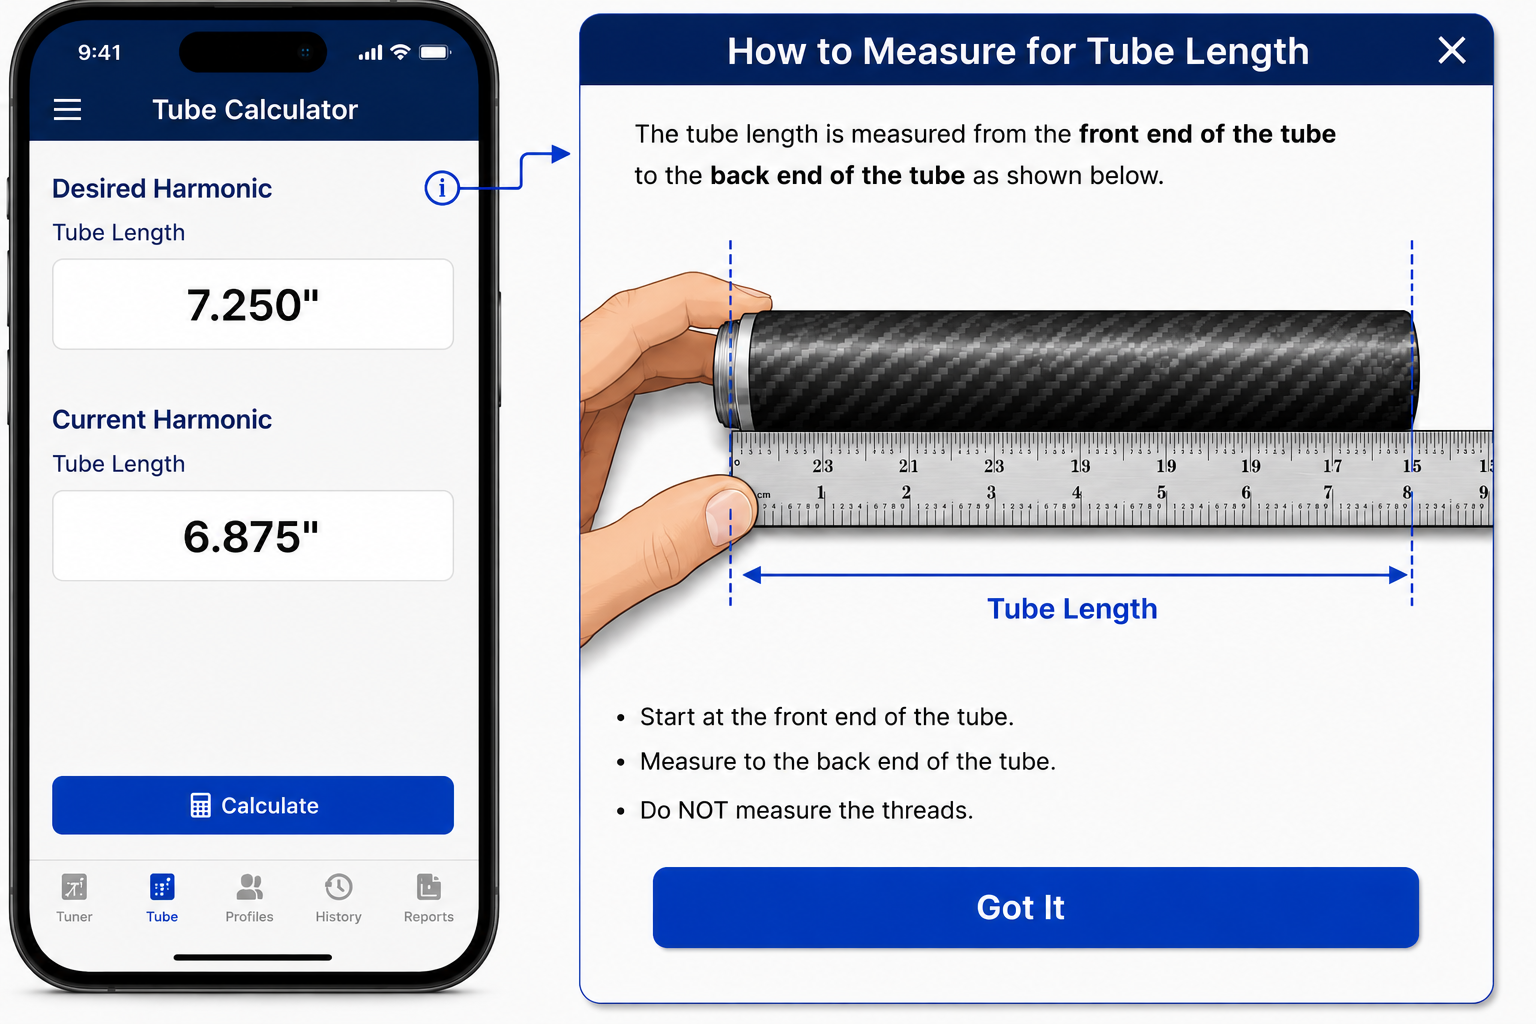
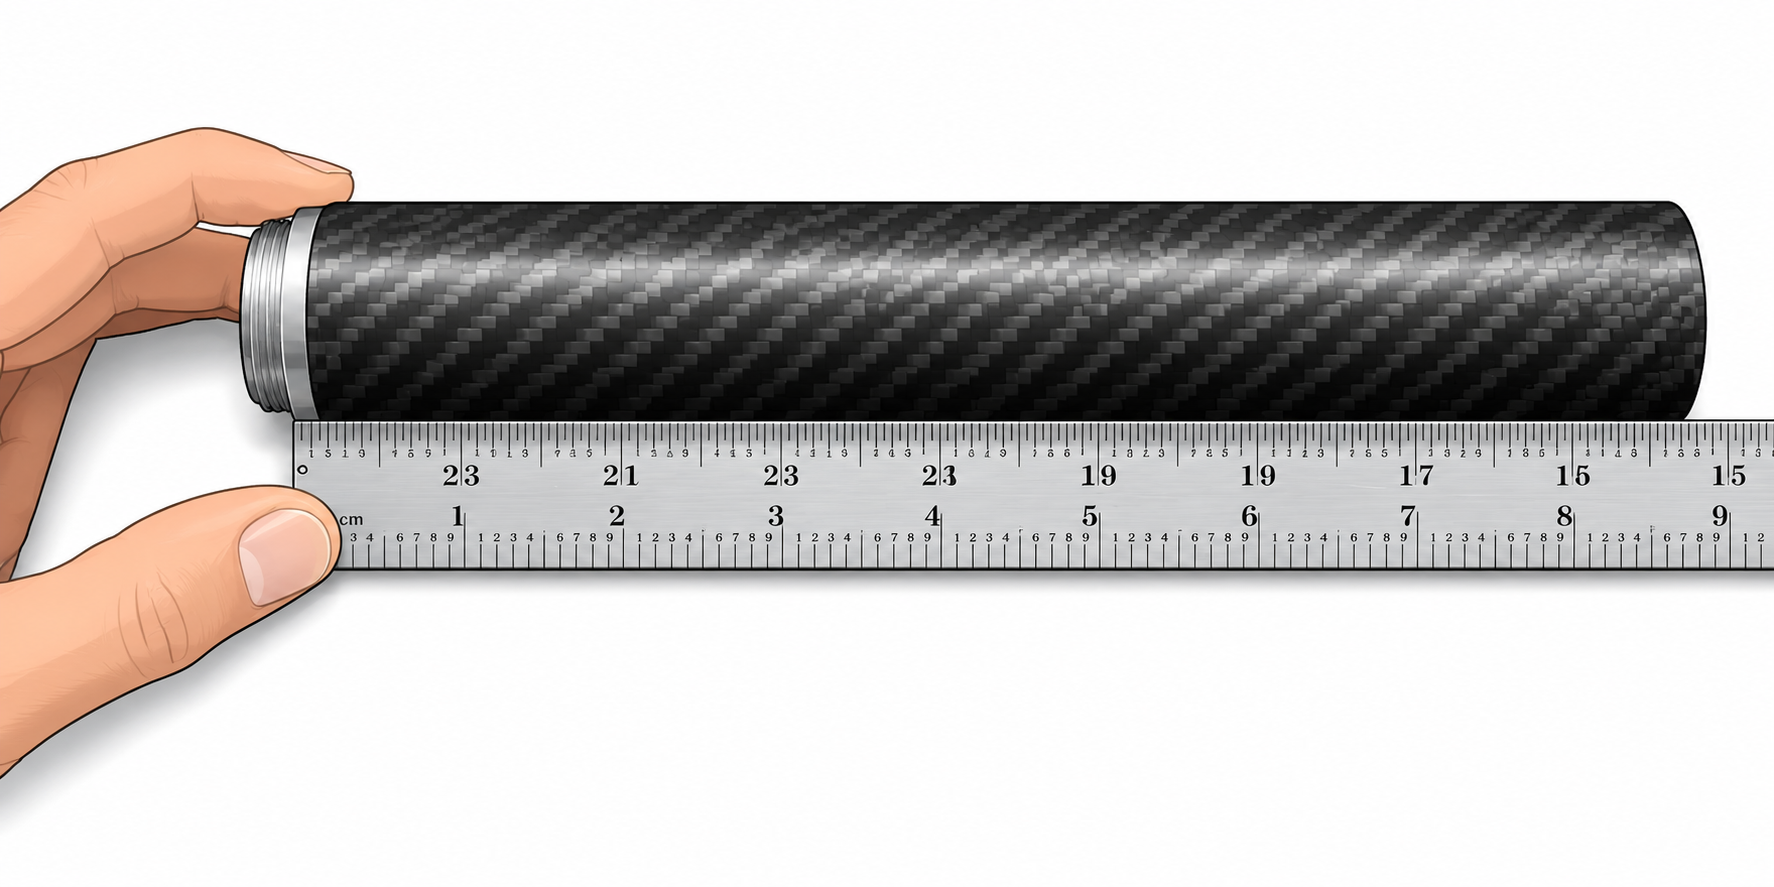
Add files via upload

diff --git a/index.html b/index.html
@@ -322,11 +322,7 @@
       font-size:1.4rem;
     }
 
-    .modal-img {
-      width:100%;
-      display:block;
-      background:white;
-    }
+
 
     .modal-bottom {
       padding:12px;
@@ -335,6 +331,42 @@
 
     .modal-bottom button {
       text-align:center;
+    }
+
+
+    .modal-content {
+      background:#fff;
+      color:#111;
+      padding:16px;
+    }
+
+    .modal-description {
+      margin:0 0 12px;
+      font-size:1rem;
+      line-height:1.4;
+      color:#111;
+    }
+
+    .modal-description strong {
+      font-weight:900;
+    }
+
+    .modal-img {
+      width:100%;
+      display:block;
+      background:white;
+      border-radius:12px;
+      border:1px solid #d7dce5;
+      object-fit:contain;
+      max-height:52vh;
+    }
+
+    .modal-bullets {
+      margin:14px 0 0;
+      padding-left:22px;
+      font-size:.98rem;
+      line-height:1.55;
+      color:#111;
     }
 
     #printArea { display:none; }
@@ -487,7 +519,13 @@
         <span id="measureInfoTitle">Measurement Info</span>
         <button class="modal-close" onclick="hideMeasureInfo()">×</button>
       </div>
-      <img id="measureInfoImage" class="modal-img" src="" alt="Measurement information" />
+
+      <div class="modal-content">
+        <p id="measureInfoDescription" class="modal-description"></p>
+        <img id="measureInfoImage" class="modal-img" src="" alt="Measurement illustration" />
+        <ul id="measureInfoBullets" class="modal-bullets"></ul>
+      </div>
+
       <div class="modal-bottom">
         <button class="blue" onclick="hideMeasureInfo()">Got It</button>
       </div>
@@ -544,13 +582,26 @@ function showMeasureInfo(){
   const modal = document.getElementById("measureInfoModal");
   const img = document.getElementById("measureInfoImage");
   const title = document.getElementById("measureInfoTitle");
+  const description = document.getElementById("measureInfoDescription");
+  const bullets = document.getElementById("measureInfoBullets");
 
   if(currentMode === "tube"){
     img.src = "tube-measure-info.png";
     title.textContent = "How to Measure Tube Length";
+    description.innerHTML = 'The tube length is measured from the <strong>front end of the tube</strong> to the <strong>back end of the tube</strong>.';
+    bullets.innerHTML = `
+      <li>Start at the front end of the tube.</li>
+      <li>Measure to the back end of the tube.</li>
+      <li><strong>Do NOT measure the threads.</strong></li>
+    `;
   } else {
     img.src = "tuner-measure-info.png";
     title.textContent = "How to Measure Tuner Length";
+    description.innerHTML = 'The tuner length is measured from the <strong>end of the barrel muzzle</strong> to the <strong>end of the tuner body</strong>.';
+    bullets.innerHTML = `
+      <li>Start at the end of the barrel muzzle.</li>
+      <li>Measure to the end of the tuner body.</li>
+    `;
   }
 
   modal.classList.add("active");

diff --git a/service-worker.js b/service-worker.js
@@ -1,4 +1,4 @@
-const CACHE_NAME = "jmp-harmonics-v1";
+const CACHE_NAME = "jmp-harmonics-v5";
 const FILES = [
   "./",
   "index.html",

diff --git a/README.md b/README.md
@@ -69,3 +69,14 @@ This version fixes saving standalone tuner/tube calculations. After calculating,
 - Added Tuner w/ Tube Setting field to barrel profiles.
 - Tuner Setting and Tuner w/ Tube Setting are validated from 0 to 500 in .5 increments.
 - Updated terminology to use Tuner & Tube Length for tube calculations.
+
+
+## Version note v5
+
+- Replaced the full mockup help images with clean measurement-only images.
+- The X close button and Got It button are real app controls now.
+- Tuner help text:
+  The tuner length is measured from the end of the barrel muzzle to the end of the tuner body.
+- Tube help text:
+  The tube length is measured from the front end of the tube to the back end of the tube.
+  Do NOT measure the threads.